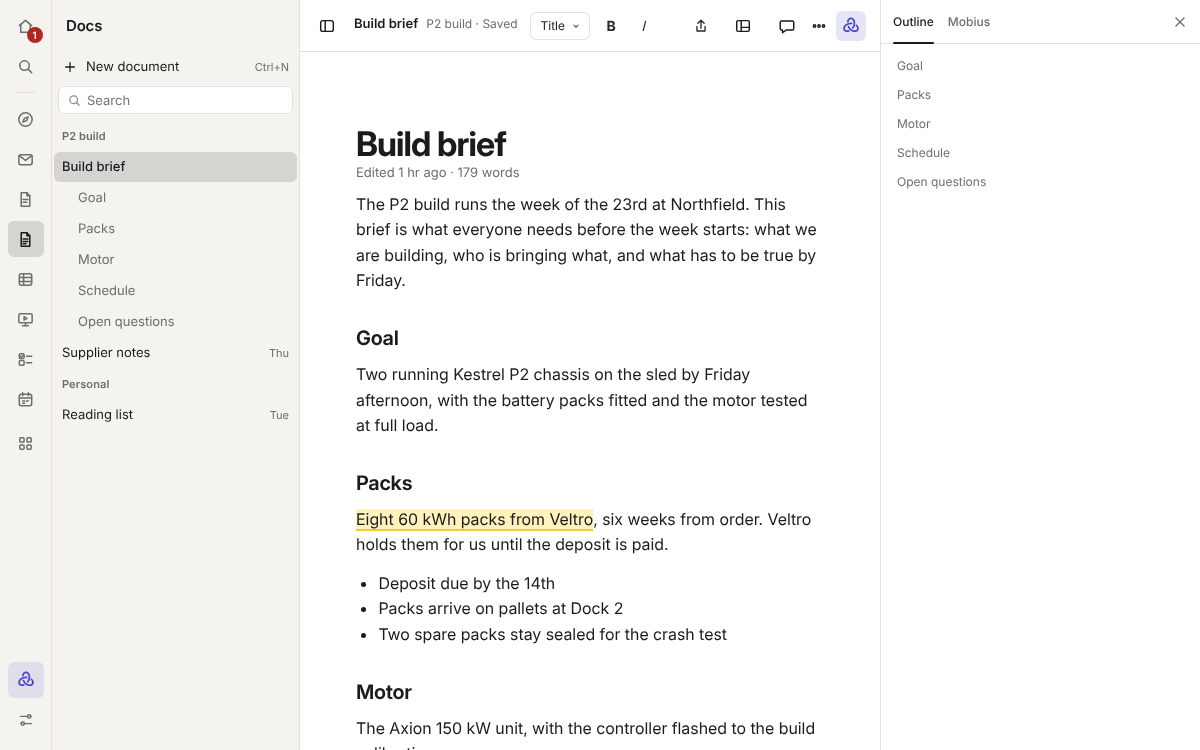
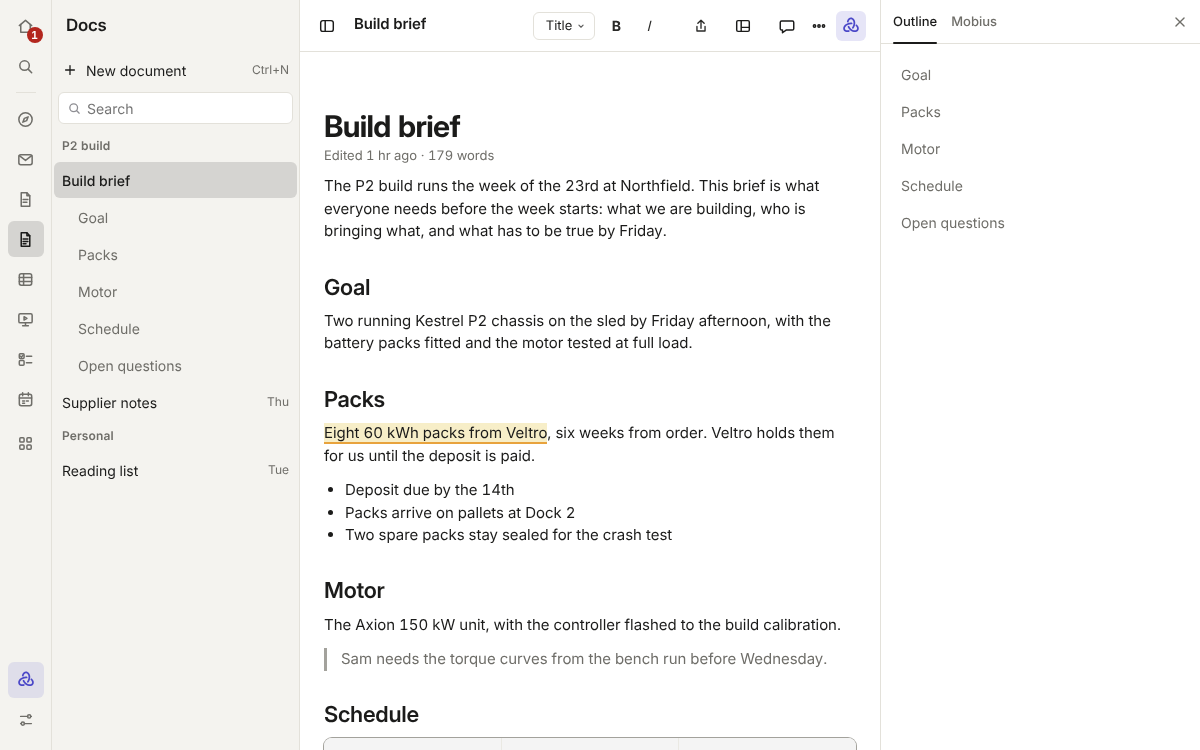
Docs: Instrument round (#188)
The page reads at the reading size in a column of --reading-w, the title at
--fs-display, 56px from the top. Every font size, control height and colour in
docs.css is a token; comment highlights and the comment count use the content
palette; shadows are the theme's. The meta line, tables and counts use tabular
figures. The paragraph style menu shows each style's key (Ctrl+Alt+0 to 3, C)
with checked rows, and Insert a code block shows its key. The Outline panel has
one row height. The sidebar shows placeholder bars until its folders are read
(useNotes gains a marked 'ready').

Claude-Session: https://claude.ai/code/session_01VRGwo9t5tEbLhRtkFMEjKg

diff --git a/apps/desktop/src/docs.css b/apps/desktop/src/docs.css
@@ -6,12 +6,11 @@
 /* The timeless page (Docs on the frame): no sheet on a grey ground, the words straight on the content's own white, in
    one column, the title over a quiet grey line of when it was edited and how long it is. */
 .doc-editor[data-frame], .doc-editor[data-frame] .doc-body { background: var(--paper, var(--bg)); }
-.doc-editor[data-frame] .doc-scroll { padding: 32px var(--sp-6) 120px; }
-.doc-editor[data-frame] .doc-paper { max-width: 700px; border-radius: 0; box-shadow: none; background: none; }
-.doc-editor[data-frame] .doc-page { min-height: 0; padding: 40px 32px 0; }
-.doc-editor[data-frame] .doc-page h1:first-child { margin: 0; font-size: 34px; letter-spacing: -0.025em; }
-.doc-editor[data-frame] .doc-page h2 { font-size: 20px; }
-.doc-meta { margin: 6px 0 28px; font-size: 13px; line-height: 1.4; color: var(--muted); user-select: none; }
+.doc-editor[data-frame] .doc-scroll { padding: 56px var(--sp-6) calc(var(--sp-8) * 3); }
+.doc-editor[data-frame] .doc-paper { max-width: var(--reading-w); border-radius: 0; box-shadow: none; background: none; }
+.doc-editor[data-frame] .doc-page { min-height: 0; padding: 0; font-size: var(--fs-reading); line-height: var(--lh-body); }
+.doc-editor[data-frame] .doc-page h1:first-child { margin: 0; font-size: var(--fs-display); line-height: var(--lh-tight); }
+.doc-meta { margin: var(--sp-2) 0 var(--sp-6); font-size: var(--fs-sm); line-height: var(--lh-body); color: var(--muted); font-variant-numeric: tabular-nums; user-select: none; }
 .doc-editor[data-frame] .doc-page h1:first-child + .doc-meta + * { margin-top: 0; }
 .doc-meta-count { margin: 0; padding: 0; border: 0; background: none; color: inherit; font: inherit; cursor: default; }
 .doc-meta-count:hover { color: var(--ink); }
@@ -24,8 +23,8 @@
 .doc-bar .strip-btn { border-radius: var(--radius-control); color: var(--body, var(--ink)); }
 .doc-bar .strip-btn:hover { background: var(--soft); color: var(--ink); }
 .doc-bar .strip-btn svg { width: 18px; height: 18px; fill: none; stroke: currentColor; stroke-width: 1.5; stroke-linecap: round; stroke-linejoin: round; }
-.doc-bar .strip-btn :is(b, i, u) { font-size: 14px; font-family: inherit; }
-.doc-bar-style { display: inline-flex; align-items: center; gap: 6px; height: 28px; margin-right: 4px; padding: 0 8px 0 10px; border: 1px solid var(--line); border-radius: var(--radius-control); background: var(--bg); color: var(--ink); font-size: var(--fs-sm); }
+.doc-bar .strip-btn :is(b, i, u) { font-size: var(--fs-md); font-family: inherit; }
+.doc-bar-style { display: inline-flex; align-items: center; gap: var(--sp-1); height: var(--control-h); margin-right: var(--sp-1); padding: 0 var(--sp-2) 0 var(--sp-3); border: 1px solid var(--line); border-radius: var(--radius-control); background: var(--bg); color: var(--ink); font-size: var(--fs-sm); }
 .doc-bar-style:hover, .doc-bar-style[aria-expanded="true"] { border-color: var(--line-strong); }
 .doc-bar-style svg { width: 10px; height: 10px; fill: none; stroke: currentColor; stroke-width: 1.4; opacity: 0.7; }
 @container doc-bar (max-width: 300px) { .doc-bar .doc-bar-group + .doc-bar-group { display: none; } }
@@ -33,11 +32,11 @@
 /* The canvas and the paper (the wiki's page, off the frame). */
 .doc-editor .doc-body { background: color-mix(in srgb, var(--panel) 80%, var(--bg)); }
 .doc-editor .doc-scroll { padding: 28px var(--sp-6) 96px; scroll-padding-top: 24px; }
-.doc-editor .doc-paper { max-width: 816px; width: 100%; border-radius: 6px; box-shadow: 0 0 0 0.5px var(--hairline, var(--line)), 0 1px 2px rgba(0, 0, 0, 0.05), 0 8px 28px rgba(0, 0, 0, 0.06); }
-.doc-editor .doc-page { min-height: min(1056px, 80vh); padding: 72px 88px 96px; font-size: 16.5px; line-height: 1.65; caret-color: var(--accent); }
-.doc-editor .doc-page h1 { font-size: 32px; font-weight: 700; letter-spacing: -0.022em; line-height: 1.15; }
-.doc-editor .doc-page h2 { font-size: 22px; font-weight: 650; letter-spacing: -0.012em; }
-.doc-editor .doc-page h3 { font-size: 17px; font-weight: 600; }
+.doc-editor .doc-paper { max-width: 816px; width: 100%; border-radius: 6px; box-shadow: 0 0 0 1px var(--line); }
+.doc-editor .doc-page { min-height: min(1056px, 80vh); padding: 72px 88px 96px; font-size: var(--fs-reading); line-height: var(--lh-body); caret-color: var(--accent); }
+.doc-editor .doc-page h1 { font-size: var(--fs-display); font-weight: 700; letter-spacing: -0.022em; line-height: var(--lh-tight); }
+.doc-editor .doc-page h2 { font-size: var(--fs-2xl); font-weight: var(--fw-semibold); letter-spacing: -0.012em; line-height: var(--lh-tight); }
+.doc-editor .doc-page h3 { font-size: var(--fs-xl); font-weight: var(--fw-semibold); line-height: var(--lh-tight); }
 .doc-editor .doc-page hr { border: 0; height: 1px; margin: 1.6em 0; background: var(--line); }
 .doc-editor .doc-page hr.ProseMirror-selectednode { outline: 2px solid color-mix(in srgb, var(--accent) 55%, transparent); outline-offset: 6px; }
 .doc-editor .doc-page ::selection { background: color-mix(in srgb, var(--accent) 24%, transparent); }
@@ -54,8 +53,8 @@
 /* Tables, as in Pages: a rounded frame, a tinted header row with a firmer line under it, and light lines inside so
    the words lead, not the grid. */
 .doc-editor .doc-page table { border-radius: 8px; overflow: hidden; border-style: hidden; box-shadow: 0 0 0 1px var(--line-strong); }
-.doc-editor .doc-page :is(th, td) { padding: 7px 10px; border-color: color-mix(in srgb, var(--line) 75%, transparent); }
-.doc-editor .doc-page th { background: color-mix(in srgb, var(--ink) 5%, var(--bg)); border-bottom: 1px solid var(--line-strong); font-size: 13px; font-weight: 600; color: color-mix(in srgb, var(--ink) 80%, var(--muted)); }
+.doc-editor .doc-page :is(th, td) { padding: var(--sp-2) var(--sp-3); font-variant-numeric: tabular-nums; border-color: color-mix(in srgb, var(--line) 75%, transparent); }
+.doc-editor .doc-page th { background: color-mix(in srgb, var(--ink) 5%, var(--bg)); border-bottom: 1px solid var(--line-strong); font-size: var(--fs-sm); font-weight: var(--fw-semibold); color: color-mix(in srgb, var(--ink) 80%, var(--muted)); }
 .doc-editor .doc-page tr:hover > td { background: color-mix(in srgb, var(--ink) 2%, transparent); }
 .doc-editor .doc-page .note-figure { margin: 16px 0; }
 .doc-editor .doc-page .note-figure img { display: block; max-width: 100%; max-height: 560px; border-radius: 8px; }
@@ -63,18 +62,18 @@
 .doc-editor .doc-page .note-figure[data-missing="true"] { display: inline-flex; padding: 10px 14px; border-radius: 10px; background: var(--field); color: var(--muted); font-size: var(--fs-sm); }
 .doc-editor .doc-page .note-figure[data-missing="true"]::before { content: attr(title); }
 .doc-editor .doc-page .note-figure[data-missing="true"] img { display: none; }
-.doc-editor .doc-page .note-commented { background: color-mix(in srgb, #ffcc00 26%, transparent); border-bottom: 2px solid color-mix(in srgb, #ffb300 70%, transparent); }
+.doc-editor .doc-page .note-commented { background: color-mix(in srgb, var(--c-yellow) 30%, transparent); border-bottom: 2px solid var(--c-amber); }
 
 /* The toolbar: one row, grouped, quiet until used. */
 .doc-editor .doc-toolbar { gap: 1px; padding: 6px var(--sp-3); flex-wrap: nowrap; overflow-x: auto; scrollbar-width: none; background: color-mix(in srgb, var(--bg) 88%, transparent); border-bottom: 0.5px solid var(--hairline, var(--line)); }
-.doc-editor .doc-toolbar select { height: 28px; min-width: 112px; font-size: var(--fs-sm); }
-.doc-toolbar .doc-tool { flex: none; min-width: 30px; height: 28px; border-radius: 7px; color: color-mix(in srgb, var(--ink) 85%, var(--muted)); }
+.doc-editor .doc-toolbar select { height: var(--control-h); min-width: 112px; font-size: var(--fs-sm); }
+.doc-toolbar .doc-tool { flex: none; min-width: var(--control-h); height: var(--control-h); border-radius: 7px; color: color-mix(in srgb, var(--ink) 85%, var(--muted)); }
 .doc-toolbar .doc-tool:disabled { opacity: 0.35; background: none; }
 .doc-toolbar .doc-tool[aria-pressed="true"] { background: color-mix(in srgb, var(--accent) 14%, transparent); color: var(--accent); }
 .doc-toolbar .doc-tool[aria-expanded="true"] { background: var(--soft); }
 .doc-toolbar .doc-tool-sep { flex: none; height: 16px; margin: 0 5px; background: var(--hairline, var(--line)); }
 .doc-tool-count { position: relative; }
-.doc-count { position: absolute; top: 1px; right: 0; min-width: 14px; height: 14px; padding: 0 3px; border-radius: 7px; background: #ffb300; color: #1d1d1f; font-size: 10px; font-weight: 700; line-height: 14px; text-align: center; }
+.doc-count { position: absolute; top: 1px; right: 0; min-width: 14px; height: 14px; padding: 0 3px; border-radius: 7px; background: var(--c-amber); color: var(--on-content); font-size: var(--fs-floor); font-weight: var(--fw-semibold); line-height: 14px; text-align: center; font-variant-numeric: tabular-nums; }
 .doc-tool-mobius { padding: 0 4px 0 0; font-size: var(--fs-sm); font-weight: 600; color: var(--mobius); white-space: nowrap; }
 .doc-toolbar .doc-tool:has(.doc-tool-mobius) { padding: 0 6px; border: 1px solid color-mix(in srgb, var(--mobius) 35%, transparent); border-radius: var(--radius-pill); margin-left: 4px; }
 .doc-toolbar .doc-tool:has(.doc-tool-mobius):hover { background: color-mix(in srgb, var(--mobius) 10%, transparent); }
@@ -90,7 +89,7 @@
 
 /* Linking: a field under the toolbar, with the documents whose names match. */
 .doc-linkbar { position: relative; z-index: 4; display: flex; align-items: center; gap: var(--sp-2); padding: 8px var(--sp-3); border-bottom: 0.5px solid var(--hairline, var(--line)); background: var(--bg); }
-.doc-linkbar input { flex: 1; min-width: 0; height: 30px; padding: 0 10px; border-radius: 8px; border: 1px solid transparent; background: var(--field); font: inherit; color: inherit; }
+.doc-linkbar input { flex: 1; min-width: 0; height: var(--control-h-lg); padding: 0 10px; border-radius: 8px; border: 1px solid transparent; background: var(--field); font: inherit; color: inherit; }
 .doc-linkbar input:focus { outline: none; border-color: color-mix(in srgb, var(--accent) 55%, transparent); box-shadow: 0 0 0 3px color-mix(in srgb, var(--accent) 18%, transparent); background: var(--bg); }
 .doc-link-pages { position: absolute; top: calc(100% - 2px); left: var(--sp-3); width: min(420px, calc(100% - 24px)); margin: 0; padding: 5px; list-style: none; border-radius: var(--radius-group); background: var(--bg); box-shadow: var(--shadow-3); }
 .doc-link-pages li { display: flex; align-items: baseline; gap: 8px; padding: 6px 10px; border-radius: 6px; cursor: pointer; font-size: var(--fs-sm); }
@@ -111,7 +110,7 @@
 .doc-margin { position: sticky; top: 0; flex: 0 0 260px; max-height: calc(100vh - 160px); overflow: auto; }
 .doc-margin .note-comments { width: auto; margin: 0; padding: 0; border: 0; }
 .doc-margin .note-comments h2 { padding: 0 6px 4px; }
-.doc-margin .note-comment { background: var(--bg); border-radius: 10px; box-shadow: 0 0 0 0.5px var(--hairline, var(--line)), 0 1px 3px rgba(0, 0, 0, 0.06); }
+.doc-margin .note-comment { background: var(--bg); border-radius: var(--radius-panel); box-shadow: 0 0 0 1px var(--line); }
 .doc-margin .note-comment { flex-direction: column; align-items: stretch; gap: 2px; }
 .doc-margin .note-comment-tools { justify-content: flex-end; margin: 0 -4px -4px 0; }
 @container (max-width: 1080px) {
@@ -127,7 +126,7 @@
 @container (max-width: 760px) { .doc-editor .doc-outline { display: none; } }
 
 /* The bar on chosen words, and what was just done. */
-.doc-selection { border: 0.5px solid var(--hairline, var(--line)); box-shadow: 0 8px 28px rgba(0, 0, 0, 0.14), 0 1px 3px rgba(0, 0, 0, 0.08); }
+.doc-selection { border: 0.5px solid var(--hairline, var(--line)); box-shadow: var(--shadow-3); }
 .doc-selection .selection-btn:disabled { opacity: 0.4; }
 .selection-sep { width: 1px; height: 16px; margin: 0 2px; background: var(--line); }
 .doc-toast { position: absolute; z-index: 7; left: 50%; bottom: 40px; transform: translateX(-50%); display: flex; align-items: center; gap: 10px; max-width: calc(100% - 32px); padding: 5px 5px 5px 14px; border-radius: var(--radius-pill); background: var(--bg); box-shadow: var(--shadow-3); font-size: var(--fs-sm); white-space: nowrap; animation: app-in var(--dur-fast) var(--ease); }
@@ -150,6 +149,7 @@
   body * { visibility: hidden !important; }
   .doc-paper, .doc-paper * { visibility: visible !important; }
   .doc-paper { position: absolute; inset: 0 auto auto 0; width: 100%; max-width: none; box-shadow: none !important; }
+  /* Black on paper in every theme: a dark theme's ink would print white. */
   .doc-paper .doc-page { padding: 0; min-height: 0; color: #000; }
   .doc-paper .note-commented { background: none; border: 0; }
 }
@@ -159,47 +159,52 @@
 .doc-editor .doc-count-btn:hover { background: var(--soft); }
 
 
-/* The typeface: the app's sans-serif by default, as Notes and Pages' blank document; serif when chosen in Document options, headings
-   and body both, so the two are paired on purpose. Tables and code keep their own. */
+/* The typeface: the app's sans-serif by default, as Notes and Pages' blank document; serif when chosen in the Docs menu, headings
+   and body both, so the two are paired on purpose. Tables and code keep their own. Both at the reading size. */
 .doc-editor .doc-page, .doc-editor .doc-page :is(h1, h2, h3) { font-family: var(--font, system-ui), sans-serif; }
-.doc-editor .doc-page { font-size: 16px; line-height: 1.6; }
 .doc-editor[data-font="serif"] .doc-page, .doc-editor[data-font="serif"] .doc-page :is(h1, h2, h3) { font-family: 'New York', 'Iowan Old Style', Charter, Georgia, serif; }
-.doc-editor[data-font="serif"] .doc-page { font-size: 16.5px; line-height: 1.65; }
 
 /* Aa: the styles, marks and lists in one panel under the bar, as in Notes. */
 .doc-toolbar .doc-aa-btn { padding: 0 8px; }
 .doc-aa { font-weight: 600; font-size: var(--fs-md); letter-spacing: -0.01em; }
 .doc-toolbar .doc-aa-btn[aria-expanded="true"], .doc-toolbar .doc-aa-btn[data-marked] { color: var(--accent); }
 .doc-toolbar .doc-aa-btn[aria-expanded="true"] { background: color-mix(in srgb, var(--accent) 13%, transparent); }
-.doc-aa-panel { position: fixed; z-index: 60; width: 272px; display: grid; gap: 10px; padding: 10px; border-radius: 14px; border: 0.5px solid var(--hairline); box-shadow: 0 12px 32px rgba(0, 0, 0, 0.16), 0 1px 3px rgba(0, 0, 0, 0.08); animation: app-in var(--dur-fast) var(--ease); }
+.doc-aa-panel { position: fixed; z-index: 60; width: 272px; display: grid; gap: 10px; padding: 10px; border-radius: 14px; border: 0.5px solid var(--hairline); box-shadow: var(--shadow-3); animation: app-in var(--dur-fast) var(--ease); }
 .doc-aa-styles { display: grid; gap: 1px; }
 .doc-aa-style { text-align: left; padding: 5px 10px; border-radius: 8px; color: var(--ink); line-height: 1.25; transition: background-color var(--dur-fast) var(--ease); }
 .doc-aa-style:hover { background: color-mix(in srgb, var(--ink) 7%, transparent); }
 .doc-aa-style[aria-pressed="true"] { background: color-mix(in srgb, var(--accent) 14%, transparent); color: var(--accent); }
-.doc-aa-style[data-style="h1"] { font-size: 20px; font-weight: 700; letter-spacing: -0.01em; }
-.doc-aa-style[data-style="h2"] { font-size: 16px; font-weight: 700; }
-.doc-aa-style[data-style="h3"] { font-size: var(--fs-md); font-weight: 600; }
+.doc-aa-style[data-style="h1"] { font-size: var(--fs-2xl); font-weight: 700; letter-spacing: -0.01em; }
+.doc-aa-style[data-style="h2"] { font-size: var(--fs-xl); font-weight: var(--fw-semibold); }
+.doc-aa-style[data-style="h3"] { font-size: var(--fs-md); font-weight: var(--fw-semibold); }
 .doc-aa-style[data-style="p"] { font-size: var(--fs-md); }
 .doc-aa-style[data-style="code"] { font-family: var(--font-mono); font-size: var(--fs-sm); }
 .doc-aa-row { display: flex; gap: 8px; }
 .doc-aa-group { flex: 1; display: flex; justify-content: space-between; padding: 2px; border-radius: 10px; background: color-mix(in srgb, var(--ink) 6%, transparent); }
 .doc-aa-group .doc-tool { flex: 1; color: var(--ink); border-radius: 8px; }
 .doc-aa-group .doc-tool:hover { background: color-mix(in srgb, var(--ink) 8%, transparent); }
-.doc-aa-group .doc-tool[aria-pressed="true"] { color: var(--accent); background: var(--bg); box-shadow: 0 1px 2px rgba(0, 0, 0, 0.12); }
+.doc-aa-group .doc-tool[aria-pressed="true"] { color: var(--accent); background: var(--bg); box-shadow: 0 0 0 1px var(--line); }
 @media (prefers-reduced-motion: reduce) { .doc-aa-panel { animation: none; } }
 
 /* Mobius's changes are drawn by change-blocks.css. */
 
 /* Docs' sidebar: each document's edited day on the right, and the open document's headings indented under it. */
 .doc-side-when { flex: none; padding-right: var(--sp-2); font-size: var(--fs-xs); color: var(--muted); font-variant-numeric: tabular-nums; pointer-events: none; }
-.doc-side-review { flex: none; padding-right: var(--sp-2); font-size: var(--fs-sm); color: var(--mobius, var(--accent)); white-space: nowrap; }
+.doc-side-review { flex: none; padding-right: var(--sp-2); font-size: var(--fs-xs); color: var(--mobius, var(--accent)); white-space: nowrap; }
 .doc-side-outline > ul { list-style: none; margin: 0; padding: 0; display: flex; flex-direction: column; gap: var(--hairline-w, 1px); }
-.side .doc-side-outline .doc-side-heading.list-row { padding-left: 24px; color: var(--muted); }
-.side .doc-side-outline .doc-side-heading.list-row[data-level="3"] { padding-left: 36px; }
+.side .doc-side-outline .doc-side-heading.list-row { padding-left: var(--sp-6); color: var(--muted); }
+.side .doc-side-outline .doc-side-heading.list-row[data-level="3"] { padding-left: calc(var(--sp-6) + var(--sp-3)); }
 .side .doc-side-outline .doc-side-heading.list-row:is(:hover, [aria-current]) { color: var(--ink); }
 
+/* The sidebar while its folders are read: placeholder bars on the sidebar's rows. */
+.doc-side-loading { list-style: none; margin: 0; padding: var(--sp-2) 0; }
+.doc-side-loading li { display: flex; align-items: center; height: var(--row-side); padding: 0 var(--sp-3); }
+.doc-side-loading span { height: var(--sp-2); border-radius: var(--radius-small); background: var(--sel); }
+
 /* The outline as a panel (the right panel's Outline tab, beside Mobius). */
-.doc-outline-panel { display: flex; flex-direction: column; gap: 1px; padding: var(--sp-2); }
-.doc-outline-panel .doc-outline-item { text-align: left; padding: 5px 8px; border-radius: var(--radius-control); color: var(--muted); font-size: var(--fs-sm); }
-.doc-outline-panel .doc-outline-item[data-level="3"] { padding-left: 20px; }
-.doc-outline-panel .doc-outline-item:hover, .doc-outline-panel .doc-outline-item[aria-current] { color: var(--ink); background: var(--soft); }
+.doc-outline-panel { display: flex; flex-direction: column; gap: 1px; padding: var(--sp-3); }
+.doc-outline-panel .doc-outline-item { display: flex; align-items: center; height: var(--row-side); padding: 0 var(--sp-2); border-radius: var(--radius-control); color: var(--muted); font-size: var(--fs-md); text-align: left; white-space: nowrap; overflow: hidden; text-overflow: ellipsis; }
+.doc-outline-panel .doc-outline-item[data-level="3"] { padding-left: var(--sp-6); }
+.doc-outline-panel .doc-outline-empty { margin: 0; padding: var(--sp-2); color: var(--muted); font-size: var(--fs-md); }
+.doc-outline-panel .doc-outline-item:hover { color: var(--ink); background: color-mix(in srgb, var(--sel) 50%, transparent); }
+.doc-outline-panel .doc-outline-item[aria-current] { color: var(--ink); background: var(--sel); font-weight: var(--fw-medium); }

diff --git a/apps/desktop/src/Docs.tsx b/apps/desktop/src/Docs.tsx
@@ -66,12 +66,13 @@ function headingsOf(editor: Editor | null): { level: number; text: string; pos: 
   return out;
 }
 
+/** The paragraph styles, with the editor's own keys for each (Ctrl+Alt and a number, or C for code). */
 const STYLES = [
-  { id: 'p', label: 'Body' },
-  { id: 'h1', label: 'Title' },
-  { id: 'h2', label: 'Heading' },
-  { id: 'h3', label: 'Subheading' },
-  { id: 'code', label: 'Code' },
+  { id: 'p', label: 'Body', key: '0' },
+  { id: 'h1', label: 'Title', key: '1' },
+  { id: 'h2', label: 'Heading', key: '2' },
+  { id: 'h3', label: 'Subheading', key: '3' },
+  { id: 'code', label: 'Code', key: 'C' },
 ] as const;
 
 /** The document's typeface: the app's sans-serif, as in Notes, or a serif for those who write long pieces in one. Per device. */
@@ -245,7 +246,6 @@ function Toolbar({ editor, onTool, busy, extras, trailing, inFrame }: {
     // less often is at the top of the window's one ⋯ (AppMenu): the other lists and marks, Insert, Mobius's writing tools
     // and the document's options.
     const styleName = STYLES.find((s) => s.id === state.style)?.label ?? 'Body';
-    const tick = (on: boolean) => (on ? <Icon d="m5 10.5 3.2 3L15 6.5" /> : undefined);
     const mobiusIcon = <svg viewBox="0 0 20 20" aria-hidden="true">{APP_ICONS.agent}</svg>;
     const btn = (label: string, title: string, pressed: boolean | undefined, onClick: () => void, icon: ReactNode, extra: { gives?: boolean } = {}) => (
       <button type="button" className="strip-btn doc-bar-btn" aria-label={label} title={title} {...(pressed === undefined ? {} : { 'aria-pressed': pressed })} data-gives-way={extra.gives || undefined} onPointerDown={keep} onClick={onClick}>{icon}</button>
@@ -262,7 +262,7 @@ function Toolbar({ editor, onTool, busy, extras, trailing, inFrame }: {
       { label: 'Insert a table', icon: tableIcon, run: run((c) => c.insertTable({ rows: 3, cols: 3, withHeaderRow: true })) },
       ...(extras.onFile ? [{ label: 'Insert a picture or file…', run: extras.onFile }] : []),
       { label: 'Insert a divider', run: run((c) => c.setHorizontalRule()) },
-      { label: 'Insert a code block', run: run((c) => c.toggleCodeBlock()) },
+      { label: 'Insert a code block', keys: `${mod}Alt+C`, run: run((c) => c.toggleCodeBlock()) },
       // Mobius's writing tools: on the chosen words, or the whole document when none are chosen.
       ...(onTool ? WRITING_TOOLS.map((t, i) => ({ label: t.label, icon: mobiusIcon, disabled: busy, separated: i === 0, run: () => onTool(t.id, t.id === 'summarise' ? null : selectedText()) })) : []),
       ...(extras.onComments ? [{ label: extras.commentsOpen ? 'Hide comments in the margin' : extras.comments ? `Show comments in the margin (${extras.comments} open)` : 'Show comments in the margin', run: extras.onComments, separated: true }] : []),
@@ -275,8 +275,8 @@ function Toolbar({ editor, onTool, busy, extras, trailing, inFrame }: {
       <ToolbarControls label="Docs">
         <div className="doc-toolbar doc-bar" data-frame role="toolbar" aria-label="Format">
           <span className="doc-bar-group">
-            <Menu label="Paragraph style" entries={STYLES_SHOWN.map((s) => ({ label: s.label, icon: tick(state.style === s.id), run: () => setStyle(s.id) }))}
-              trigger={<button type="button" className="doc-bar-style" aria-label={`Paragraph style: ${styleName}`} title="The paragraph's style"><span>{styleName}</span><svg viewBox="0 0 12 12" aria-hidden="true"><path d="M3.5 5 6 7.5 8.5 5" /></svg></button>} />
+            <Menu label="Paragraph style" entries={STYLES_SHOWN.map((s) => ({ label: s.label, checked: state.style === s.id, keys: `${mod}Alt+${s.key}`, run: () => setStyle(s.id) }))}
+              trigger={<button type="button" className="doc-bar-style" aria-label={`Paragraph style: ${styleName}`} title="Paragraph style"><span>{styleName}</span><svg viewBox="0 0 12 12" aria-hidden="true"><path d="M3.5 5 6 7.5 8.5 5" /></svg></button>} />
             {btn('Bold', `Bold (${mod}B)`, state.bold, run((c) => c.toggleBold()), <b>B</b>)}
             {btn('Italic', `Italic (${mod}I)`, state.italic, run((c) => c.toggleItalic()), <i>I</i>)}
             {btn('Underline', `Underline (${mod}U)`, state.underline, run((c) => c.toggleUnderline()), <u>U</u>, { gives: true })}

diff --git a/apps/desktop/e2e/docs.spec.ts b/apps/desktop/e2e/docs.spec.ts
@@ -47,7 +47,7 @@ test('a new document is written on the page with formatting and kept as Markdown
   await shell().keyboard.press('Control+End');
   // The paragraph's style is the first thing in the window's toolbar ("Body ⌄"); the keys still go to the page after.
   await shell().getByRole('toolbar', { name: 'Format' }).getByRole('button', { name: /^Paragraph style/ }).click();
-  await shell().getByRole('menu', { name: 'Paragraph style' }).getByRole('menuitem', { name: 'Heading', exact: true }).click();
+  await shell().getByRole('menu', { name: 'Paragraph style' }).getByRole('menuitemcheckbox', { name: /^Heading\b/ }).click();
   // The choice applies once the menu has closed, and the keys go back to the page then.
   await expect(shell().getByRole('toolbar', { name: 'Format' }).getByRole('button', { name: 'Paragraph style: Heading' })).toBeVisible();
   await expect(shell().getByRole('menu', { name: 'Paragraph style' })).toHaveCount(0);

diff --git a/apps/desktop/src/DocsSidebar.tsx b/apps/desktop/src/DocsSidebar.tsx
@@ -134,7 +134,13 @@ export function DocsSidebar({ docs, changed, starts, onStart }: {
         </SidebarSection>
       ) : (
         <>
-          {docs.notebooks.length === 0 && !naming && (
+          {/* Until the folders are read: grey bars the shape of the rows, not "No documents yet". */}
+          {!(docs.loaded || !docs.available) && (
+            <ul className="doc-side-loading" aria-label="Loading documents" aria-busy="true">
+              {[64, 48, 72, 56].map((w) => <li key={w}><span style={{ width: `${w}%` }} /></li>)}
+            </ul>
+          )}
+          {(docs.loaded || !docs.available) && docs.notebooks.length === 0 && !naming && (
             <div className="side-empty notes-empty">
               <p>No documents yet.</p>
             </div>

diff --git a/docs/apps/write-and-plan.md b/docs/apps/write-and-plan.md
@@ -34,7 +34,7 @@ Longer documents, with an outline and comments.
 - **A page to write on**, straight on the window's white: headings, lists, checklists, tables, pictures and links to
   other documents, kept as Markdown. Under the title a quiet line says when it was edited and how many words it has;
   click the count for characters or reading time, or select some text to count just that.
-- **The toolbar** has the paragraph style (**Body ⌄**), **B**, **I** and **U**, then a bulleted list, a table and a
+- **The toolbar** has the paragraph style (**Body ⌄**, or Ctrl+Alt+0 to 3 from the keyboard), **B**, **I** and **U**, then a bulleted list, a table and a
   link, then **Share**. While you are in a table, its button has the rows and columns. The window's **⋯** opens on
   the **Docs** menu with the rest: numbered lists, checklists, quotes, strikethrough and code; Insert (table, picture,
   divider, code block); Mobius's writing tools; the margin's comments; earlier versions; and a serif font.
